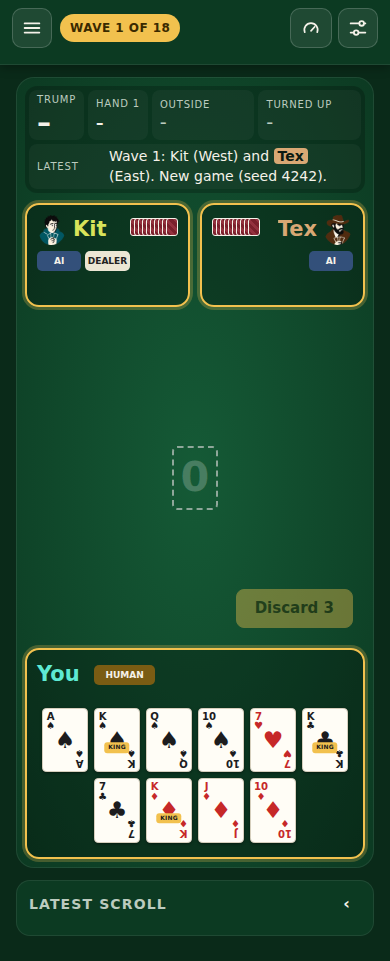
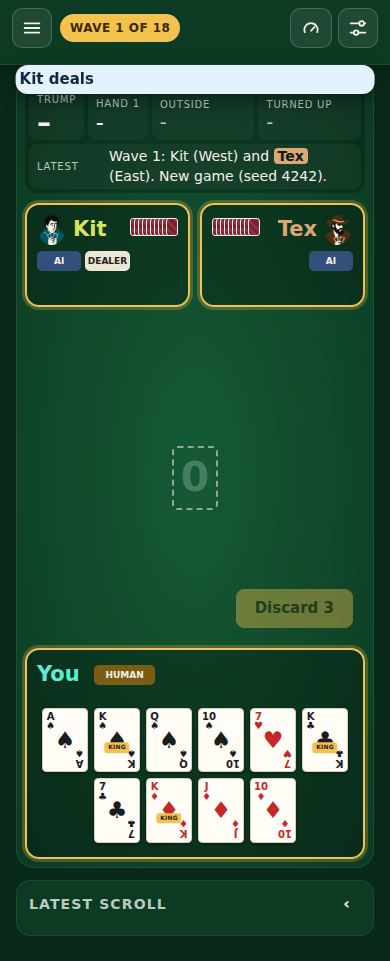
Toast Pass and every added tag
Pass leaves the seats and becomes a toast, like the trump calls. A tag
that gets added is announced once by a toast: Dealer ("Kit deals"),
Kitty ("10♥ goes to You · Kitty"), Mediator and Showdown ("SHOWDOWN!
Kit vs Tex · you mediate"); Namer comes with the trump call. Turn and
Led change every play, so they stay tag-only.

Claude-Session: https://claude.ai/code/session_01QkpazkapUFZWg4SWZB1dDA

Changed region(s): [[0.0308, 0.0624, 0.9846, 0.1249]]

diff --git a/mockups/advanced.js b/mockups/advanced.js
@@ -301,3 +301,17 @@ for (const b of $$('.seat .bubble.call, .me .bubble.call')) {
   $('#toasts').insertAdjacentHTML('beforeend', '<div class="toast info" style="animation:none">' + (who === 'You' ? 'You ' + t.replace(/^accepts/, 'accept').replace(/^names/, 'name') : who + ' ' + t) + ' trump</div>');
   b.remove();
 }
+// Pass is a toast too. Pass bubbles leave the seats.
+for (const b of $$('.seat .bubble.pass, .me .bubble.pass')) {
+  const who = (($('.seat-name', b.closest('.seat, .me')) || {}).textContent || '').trim();
+  $('#toasts').insertAdjacentHTML('beforeend', '<div class="toast info" style="animation:none">' + who + (who === 'You' ? ' pass' : ' passes') + '</div>');
+  b.remove();
+}
+// A tag that gets added is announced once by a toast (Dealer, Kitty, Mediator/Showdown; Namer is the trump call above).
+// Turn and Led change every play, so they stay tag-only. The mockup toasts the newest such event in the log.
+{ const first = $('#gameLog li'), t = first ? first.textContent.trim() : '';
+  let m, msg = null;
+  if ((m = t.match(/^Hand \d+: (\w+) deals/))) msg = m[1] + ' deals';
+  else if ((m = t.match(/^(\S+) goes to (\w+)/))) msg = m[1] + ' goes to ' + m[2] + ' · Kitty';
+  else if ((m = t.match(/^SHOWDOWN! (\w+) and (\w+) tied.*?(\w+) (?:are|is) the mediator/))) msg = 'SHOWDOWN! ' + m[1] + ' vs ' + m[2] + ' · ' + (m[3] === 'You' ? 'you mediate' : m[3] + ' mediates');
+  if (msg && !$$('#toasts .toast').some(x => x.textContent === msg)) $('#toasts').insertAdjacentHTML('afterbegin', '<div class="toast info" style="animation:none">' + msg + '</div>'); }
